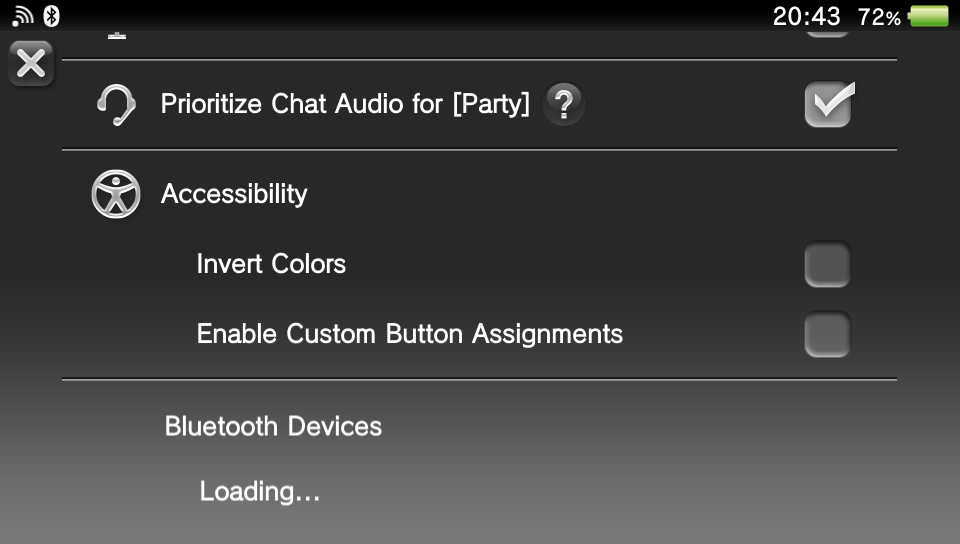
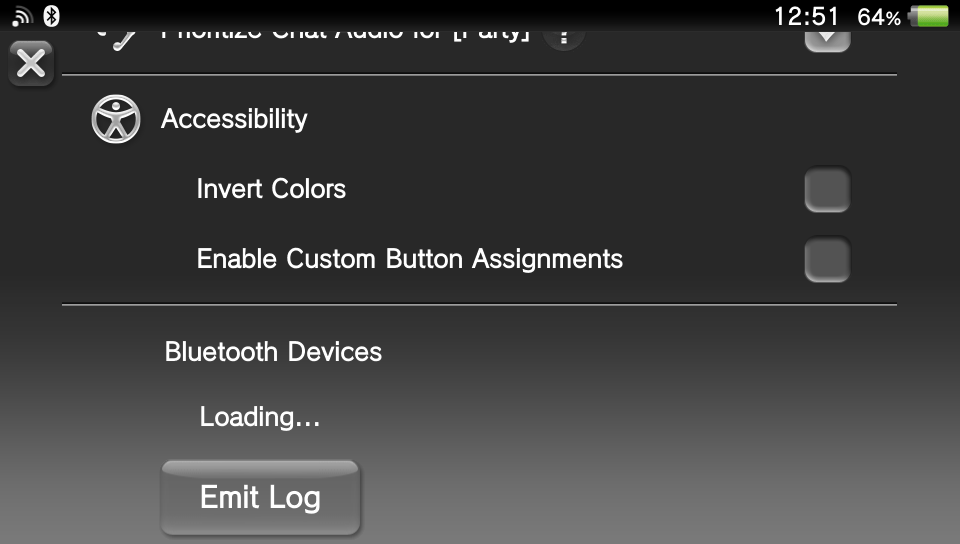
Implement logging (#53)
* log onload, wont work

* Logging works

* adjusted

* Sum

* Add todos

* log.h

* Todo

* Fixed timestmp

* fname and line number

* recv-logs

* comment

* from main, wip

* from main, wip

* Eliminated CMAKE_C_FLAGS

* sort

* from main

* todo

* lint warnings aren't new

* prepare for PR

* todo

* prune

* Reduce wrapping in GitHub diff view.

* wrapping retry

diff --git a/src/quickmenu.c b/src/quickmenu.c
@@ -22,12 +22,27 @@ this program. If not, see <https://www.gnu.org/licenses/>.
 #include <quickmenureborn/qm_reborn.h>
 
 #include "config.h"
+#include "log.h"
 
 // Widget IDs (prefixed because they must be unique across all plugins).
 #define ID_SEPARATOR PROJECT_NAME "Separator"
 #define ID_PLANE_ROOT PROJECT_NAME "PlaneRoot"
 #define ID_SECTION_TEXT PROJECT_NAME "SectionText"
 #define ID_LOADING_TEXT PROJECT_NAME "LoadingText"
+#define ID_BUTTON PROJECT_NAME "Button"
+
+/**
+ * Called when the user taps on the button. Emits a log message.
+ */
+BUTTON_HANDLER(on_press) {
+    (void)id;
+    (void)hash;
+    (void)eventId;
+    (void)userDat;
+
+    LOG_DEBUG("Example string only.");
+    LOG_DEBUG("Example with argument: %s:%d", "ARGUMENT", 86);
+}
 
 /**
  * Loads the plugin's quick menu items.
@@ -42,28 +57,37 @@ void quickmenu_start() {
 
     // Add the root plane that holds all other items.
     QuickMenuRebornRegisterWidget(ID_PLANE_ROOT, NULL, plane);
-    QuickMenuRebornSetWidgetSize(ID_PLANE_ROOT, SCE_PLANE_WIDTH, 125, 0, 0);
+    QuickMenuRebornSetWidgetSize(ID_PLANE_ROOT, SCE_PLANE_WIDTH, 200, 0, 0);
     QuickMenuRebornSetWidgetColor(ID_PLANE_ROOT, 1, 1, 1, 0);
 
     // Add section heading text.
     QuickMenuRebornRegisterWidget(ID_SECTION_TEXT, ID_PLANE_ROOT, text);
     QuickMenuRebornSetWidgetSize(ID_SECTION_TEXT, SCE_PLANE_WIDTH, 50, 0, 0);
-    QuickMenuRebornSetWidgetPosition(ID_SECTION_TEXT, -206, 25, 0, 0);
+    QuickMenuRebornSetWidgetPosition(ID_SECTION_TEXT, -206, 62, 0, 0);
     QuickMenuRebornSetWidgetColor(ID_SECTION_TEXT, 1, 1, 1, 1);
     QuickMenuRebornSetWidgetLabel(ID_SECTION_TEXT, "Bluetooth Devices");
 
     // Add placeholder "Loading" text.
     QuickMenuRebornRegisterWidget(ID_LOADING_TEXT, ID_PLANE_ROOT, text);
     QuickMenuRebornSetWidgetSize(ID_LOADING_TEXT, SCE_PLANE_WIDTH, 50, 0, 0);
-    QuickMenuRebornSetWidgetPosition(ID_LOADING_TEXT, -220, -40, 0, 0);
+    QuickMenuRebornSetWidgetPosition(ID_LOADING_TEXT, -220, -3, 0, 0);
     QuickMenuRebornSetWidgetColor(ID_LOADING_TEXT, 1, 1, 1, 1);
     QuickMenuRebornSetWidgetLabel(ID_LOADING_TEXT, "Loading...");
+
+    // Add button to test emitting logs.
+    QuickMenuRebornRegisterWidget(ID_BUTTON, ID_PLANE_ROOT, button);
+    QuickMenuRebornSetWidgetSize(ID_BUTTON, 200, 75, 0, 0);
+    QuickMenuRebornSetWidgetPosition(ID_BUTTON, -220, -83, 0, 0);
+    QuickMenuRebornSetWidgetColor(ID_BUTTON, 1, 1, 1, 1);
+    QuickMenuRebornSetWidgetLabel(ID_BUTTON, "Emit Log");
+    QuickMenuRebornRegisterEventHanlder(ID_BUTTON, QMR_BUTTON_RELEASE_ID, on_press, NULL);
 }
 
 /**
  * Unloads the plugin's quick menu items.
  */
 void quickmenu_stop() {
+    QuickMenuRebornUnregisterWidget(ID_BUTTON);
     QuickMenuRebornUnregisterWidget(ID_LOADING_TEXT);
     QuickMenuRebornUnregisterWidget(ID_SECTION_TEXT);
     QuickMenuRebornUnregisterWidget(ID_PLANE_ROOT);

diff --git a/src/log.h b/src/log.h
@@ -1,0 +1,35 @@
+/*
+This file is part of vitaQmBluetooth.
+Copyright © 2026 Robpol86
+
+This program is free software: you can redistribute it and/or modify it under
+the terms of the GNU General Public License as published by the Free Software
+Foundation, version 3 of the License.
+
+This program is distributed in the hope that it will be useful, but WITHOUT
+ANY WARRANTY; without even the implied warranty of MERCHANTABILITY or FITNESS
+FOR A PARTICULAR PURPOSE. See the GNU General Public License for more details.
+
+You should have received a copy of the GNU General Public License along with
+this program. If not, see <https://www.gnu.org/licenses/>.
+*/
+
+#ifndef LOG_H
+#define LOG_H
+
+#include <psp2/kernel/clib.h>
+#include <psp2/rtc.h>
+
+#include "config.h"
+
+// TODO noop LOG_DEBUG() and helpers for release builds (#52).
+#define LOG_DEBUG(fmtMsg, ...)                                                                                \
+    do {                                                                                                      \
+        SceDateTime _time;                                                                                    \
+        sceRtcGetCurrentClockLocalTime(&_time);                                                               \
+        sceClibPrintf("[%02d:%02d:%02d.%03d] [" PROJECT_NAME "] [%s:%d:%s] [DEBUG] " fmtMsg "\n", _time.hour, \
+                      _time.minute, _time.second, _time.microsecond / 1000, __FILE__, __LINE__, __func__,     \
+                      ##__VA_ARGS__);                                                                         \
+    } while (0)
+
+#endif  // LOG_H

diff --git a/CONTRIBUTING.md b/CONTRIBUTING.md
@@ -14,6 +14,10 @@ TODO
 
 TODO
 
+TODO support vita3k
+
+Install vitacompanion on a PS Vita:
+
 ```bash
 # TODO replace with make commands.
 # https://github.com/Robpol86/vitacompanion/tree/sdk-fix
@@ -21,6 +25,18 @@ TODO
 wget -P build-SCREENSHOT --mirror ftp://192.168.9.109:1337/ux0:/picture/SCREENSHOT/
 curl -T build-debug/vitaQmBluetooth.suprx ftp://192.168.9.109:1337/ur0:/QuickMenuReborn/
 echo reboot |nc -v 192.168.9.109 1338
+```
+
+Install Cat-A-Log on a PS Vita:
+
+```bash
+# https://github.com/isage/catlog
+#   rm -rf build && cmake -DCMAKE_POLICY_VERSION_MINIMUM=3.5 -B build . && cmake --build build
+#   for f in build/*_module/catlog.s?prx; do curl -T "$f" ftp://192.168.9.109:1337/ur0:/tai/; done
+# Edit ur0:tai/config.txt
+# Add firewall rule to router.
+# Local: nc -kl 10224
+# Reboot vita to get a lot of kernel log statements.
 ```
 
 ## Releases
